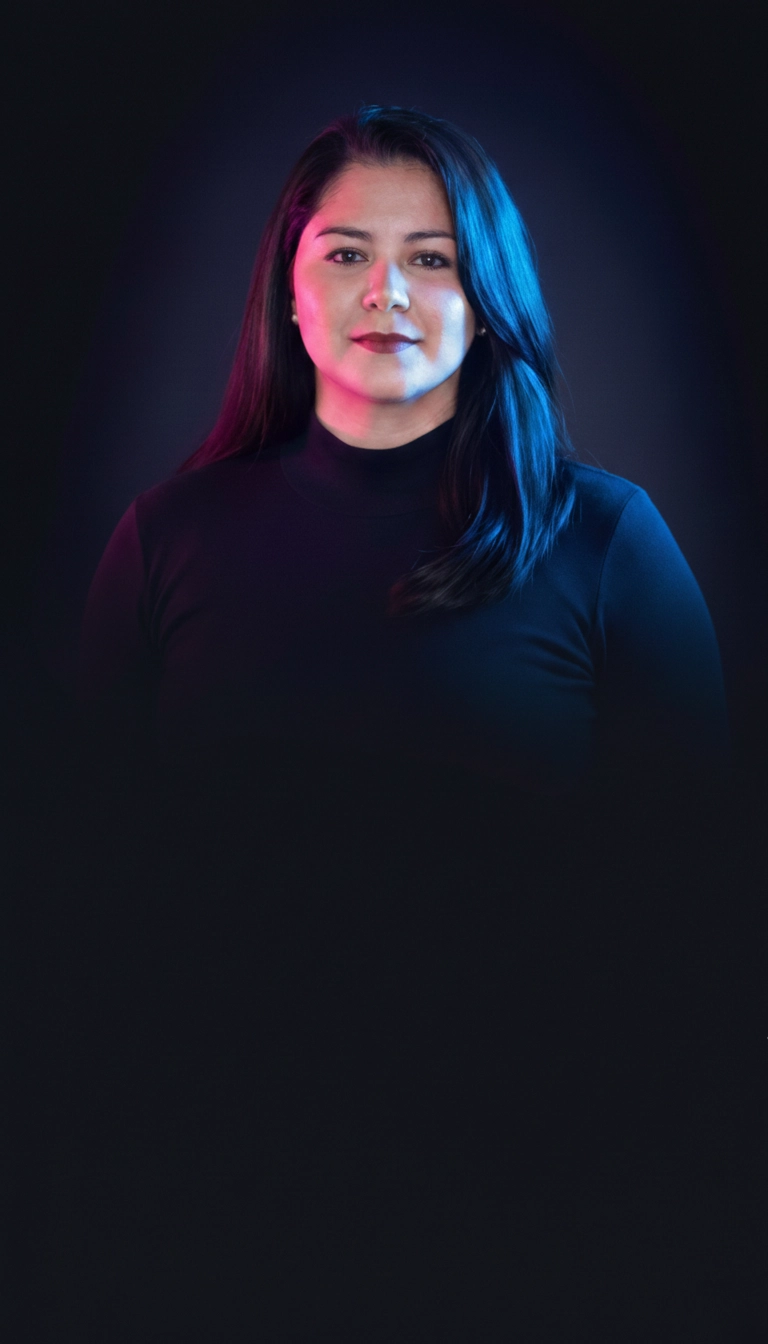
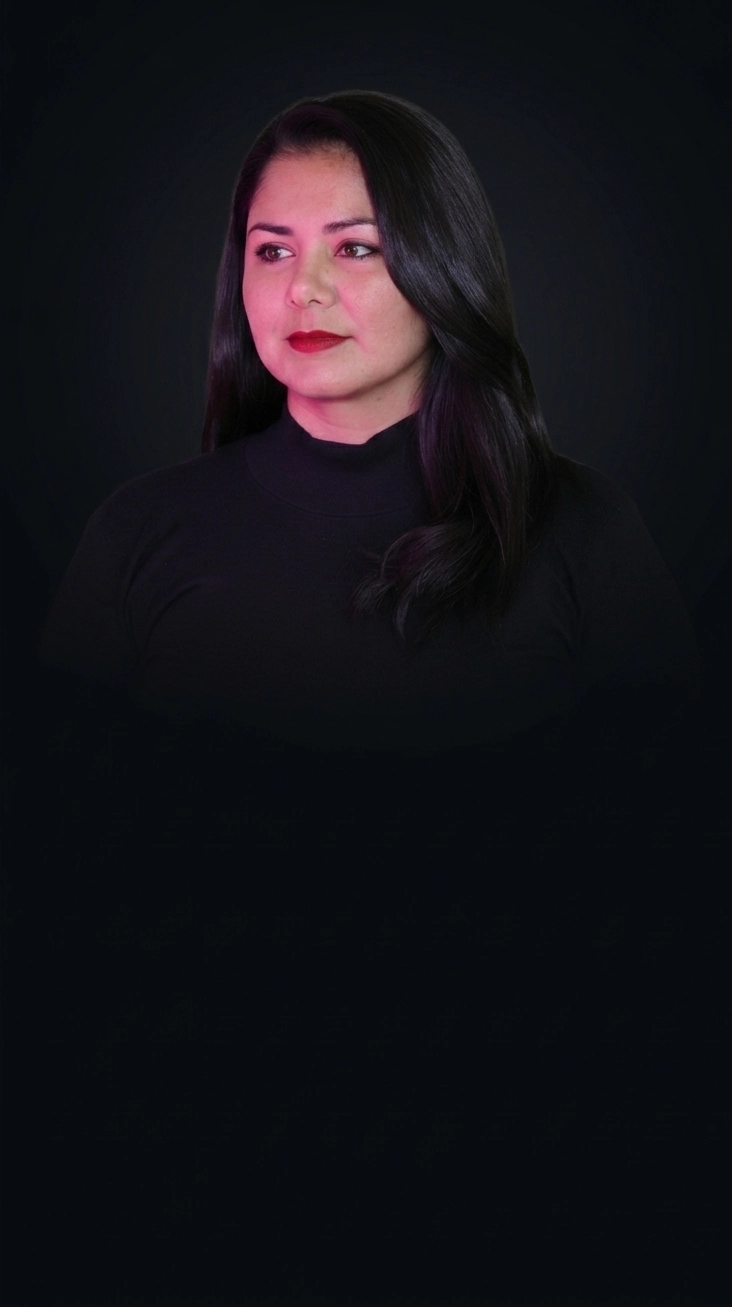
Ajustes

Changed region(s): [[0.2104, 0.0612, 0.9617, 0.5203], [0.1202, 0.3673, 0.1803, 0.4285]]

diff --git a/Portfolio/style.css b/Portfolio/style.css
@@ -1,4 +1,5 @@
-/* ==================== VARIÁVEIS DE CORES (PALETA NEON) ==================== */
+/* ==================== VARIÁVEIS ==================== */
+
 :root {
     /*CORES*/
     --bg-color: #0a0a0c;
@@ -80,7 +81,7 @@ body {
 
 .bg-overlay.default-bg {
     background: 
-        linear-gradient(to right, rgba(0, 0, 0, 0.9) 0%, rgba(0, 0, 0, 0)75%), 
+        linear-gradient(to right, rgba(0, 0, 0, 0.9) 0%, rgba(0, 0, 0, 0) 75%), 
         url('images/fundo-desktop.webp');
     background-size: contain;
     background-position: center;
@@ -150,7 +151,7 @@ nav {
     text-shadow: 0 0 10px var(--neon-pink), 0 0 20px rgba(255, 0, 255, 0.4);
 }
 
-/* Botão de Menu */
+/* Botão de Menu (Desktop default: hidden) */
 .menu-icon {
     display: none;
     background: none;
@@ -171,8 +172,7 @@ nav {
 /* ==================== ESTRUTURA E TRANSIÇÃO ==================== */
 .page {
     position: fixed;
-    inset: 0;
-    display: none;
+    inset: 0; /* inicialmente invisível via visibility/opacity */
     visibility: hidden;
     z-index: 10;
     display: flex;
@@ -250,7 +250,7 @@ nav {
 
 .subtitle {
     font-family: var(--font-sub);
-    font-size: clamp(1rem, 2.2vw, 1.5rem);
+    font-size: 1.4rem;
     letter-spacing: 0.3em;
     text-transform: uppercase;
     color: #555;
@@ -298,7 +298,7 @@ nav {
 
 .control-label {
     font-family: var(--font-sub);
-    font-size: 0.7rem;
+    font-size: 0.6rem;
     color: rgba(255, 255, 255, 0.3);
     letter-spacing: 2px;
     text-transform: uppercase;
@@ -677,7 +677,36 @@ input:checked+.slider:before {
     border-top: 1px solid rgba(0, 255, 255, 0.05);
 }
 
-/* ==================== ==========================================RESPONSIVIDADE & MOBILE MENU ==============================================================================*/
+/* ==================== RESPONSIVIDADE ==================== */
+
+/* ==================== NOTEBOOK ==================== */
+@media (max-width: 1600px) {
+
+    .bg-overlay.default-bg {
+        background:
+            linear-gradient(to right, rgba(0,0,0,0.9) 0%, rgba(0,0,0,0) 60%),
+            url('images/fundo-notebook.webp');
+
+        background-size: cover;
+        background-position: bottom;
+    }
+
+    .home-inner {
+        margin-left: 70px;
+        max-width: 700px;
+    }
+
+    .neon-text {
+        font-size: 7rem;
+    }
+
+    .subtitle {
+        font-size: 1.1rem;
+        letter-spacing: 0.4em;
+    }
+}
+
+/* ==================== MOBILE ==================== */
 @media (max-width: 768px) {
     .bg-overlay.default-bg {
     background: 
@@ -693,56 +722,59 @@ input:checked+.slider:before {
         font-size: 0.8rem;
     }
 
-    .neon-text {
-        font-size: clamp(5rem, 8vw, 4.9rem);
-        transform: rotate(-5deg);
-        flex-direction: column;
-        justify-content: 100px;
-        align-items: center;
-        
+   .neon-text {
+        font-size: 5rem;
+        transform: rotate(-5deg); 
+        text-align: center;
+        line-height: 0.9;
+        margin-bottom: 10px;
     }
 
     .subtitle {
-        font-size: clamp(1rem, 2vw, 1.05rem);
-        letter-spacing: 0.3em;
-    
+        margin-top: 0;
+        text-align: center;
+        font-size: 1rem;
+        letter-spacing: 0.2em;
     }
 
     /* HOME */
-    #home {
-        height: 100dvh;
-        min-height: 100dvh;
-        overflow: hidden; /* Remove o scroll apenas na home */
+    #home {        
+        padding: 0; 
+        margin: 0;
         display: flex;
         flex-direction: column;
-        justify-content: center;
-        align-items: center;
-        padding-bottom: 0px;
-        margin-top: 0px;
-        padding-bottom: 15vh;
+        justify-content: center; 
+        align-items: center;     
+        height: 100dvh;          
+        width: 100%;
+        padding-top: 30vh; 
     }
 
-   .home-inner {
+    .home-inner {
         margin: 0;
+        padding: 0;
         display: flex;
         flex-direction: column;
         align-items: center;
         justify-content: center;
         width: 100%;
-        height: auto;
     }
 
-   .sign-container {
-    transform: translateY(15vh);
-    align-self: center;
-}
+    .sign-container {
+        margin-top: 0 !important; 
+        align-self: center;
+        display: flex;
+        flex-direction: column;
+        align-items: center;
+    }
+
 
 
     /* BOTÃO MOBILE*/
     #home .power-control-wrapper {
         position: fixed;
         bottom: 60px;
-        left: 20PX;
+        left: 20px;
         margin: 0;    
         display: flex;
         flex-direction: column;
@@ -754,14 +786,11 @@ input:checked+.slider:before {
 
     /*SOBRE MIM*/
     #sobre-mim .about-card {
-        flex: 1 1 100%;
-        /* Ocupa 100% da largura */
-        width: 50%;
-        /* Garante que o card ocupe toda a largura possível */
+        flex: 1 1 100%;        
+        width: 50%;        
         padding: 25px;
         box-shadow: 0 0 8px rgba(255, 255, 255, 0.1);
-        margin: 0;
-        /* Remove margens extras */
+        margin: 0;        
     }
 
     .about-header-block .section-title {
@@ -783,7 +812,7 @@ input:checked+.slider:before {
         padding: 25px;
     }
 
-    /* CORREÇÃO CONTATO: Centralizado */
+    /* CONTATO */
     .contact-block {
         max-width: 100%;
         padding: 25px;
@@ -867,5 +896,4 @@ input:checked+.slider:before {
         width: 100%;
         color: #ccc;
     }
-
 }

diff --git a/Portfolio/index.html b/Portfolio/index.html
@@ -59,7 +59,7 @@
             <div class="home-inner">
                 <div class="sign-container" id="sign">
                     <h1 class="neon-text">Daniele</h1>
-                    <p class="subtitle">Front-End Developer ♡</p>
+                    <p class="subtitle">Desenvolvedora Front-End ♡</p>
                 </div>
                 <div class="power-control-wrapper">
                     <span class="control-label">LIGAR LETREIRO</span>
